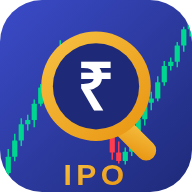
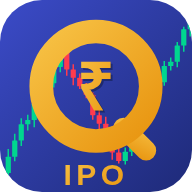
Add files via upload

Changed region(s): [[0.25, 0.2188, 0.75, 0.6875], [0.125, 0.0938, 0.875, 0.8125]]

diff --git a/index.html b/index.html
@@ -2,7 +2,7 @@
 <html lang="en">
 <head>
 <meta charset="utf-8">
-<meta name="viewport" content="width=device-width, initial-scale=1, viewport-fit=cover">
+<meta name="viewport" content="width=device-width, initial-scale=1, minimum-scale=1, maximum-scale=1, user-scalable=no, viewport-fit=cover">
 <title>IPO Analyst — Institutional Research</title>
 <meta name="description" content="Institutional-grade Indian IPO research assistant.">
 <meta name="theme-color" content="#0B1F3B" media="(prefers-color-scheme: dark)">
@@ -41,6 +41,13 @@
   }
 }
 *{box-sizing:border-box;-webkit-tap-highlight-color:transparent;}
+/* The app is a fixed-width phone layout, so pinch-zooming only ever pushed the
+   cards off-screen and left the header half-scrolled. Locked to 1x; the
+   document preview and the generated files are unaffected. */
+html{ -webkit-text-size-adjust:100%; text-size-adjust:100%; touch-action:manipulation; }
+body{ touch-action:manipulation; overscroll-behavior-y:contain; }
+/* inputs at 16px so iOS does not zoom the page when a field is focused */
+input,select,textarea{ font-size:16px; }
 html,body{margin:0;padding:0;}
 body{
   font-family:-apple-system,BlinkMacSystemFont,"Segoe UI",Roboto,Helvetica,Arial,sans-serif;
@@ -281,6 +288,20 @@ body.previewing{overflow:hidden;}
    next thing to tap — say so visually. */
 #toolRow.armed{outline:2px solid var(--gold);outline-offset:6px;border-radius:14px;}
 #toolRow.armed .btn{background:var(--surf);border-color:var(--gold);}
+
+/* Setup toggles. The in-app API run is off unless the user turns it on, so the
+   button never advertises a feature they cannot use. */
+.toggle-row{display:flex;align-items:center;gap:14px;margin-top:14px;padding:13px 14px;
+  border:1px solid var(--line);border-radius:13px;background:var(--surf2);}
+.tg-label{flex:1;margin:0;font-size:13.5px;font-weight:700;text-transform:none;letter-spacing:0;
+  color:var(--ink);line-height:1.35;}
+.tg{flex:0 0 auto;width:54px;height:32px;border-radius:999px;border:1px solid var(--line);
+  background:var(--surf);cursor:pointer;padding:0;position:relative;transition:background .18s ease;}
+.tg .tg-knob{position:absolute;top:3px;left:3px;width:24px;height:24px;border-radius:50%;
+  background:var(--ink3);transition:transform .18s ease,background .18s ease;}
+.tg[aria-checked="true"]{background:var(--grad-gold);border-color:transparent;}
+.tg[aria-checked="true"] .tg-knob{transform:translateX(22px);background:#fff;}
+.tg:focus-visible{outline:0;box-shadow:0 0 0 3px rgba(242,178,51,.35);}
 .footer{font-size:11.5px;color:var(--ink3);text-align:center;padding:24px 8px;line-height:1.6;}
 </style>
 </head>
@@ -505,7 +526,20 @@ body.previewing{overflow:hidden;}
 
   <div class="card">
     <h2>In-app AI</h2>
-    <p class="hint">Optional. Needed only for "Run analysis in-app". Your key is stored in this browser's local storage and sent directly to Anthropic — it never passes through any server of mine.</p>
+    <p class="hint">Off by default. Turn this on only if you have an Anthropic API plan and want the
+    app to run the research itself. With it off, the app works entirely through Claude, ChatGPT,
+    Gemini or Perplexity and the <b>Run analysis in-app</b> button is hidden.</p>
+
+    <div class="toggle-row">
+      <label class="tg-label" for="tgApi">Use my own API key to run analyses in-app</label>
+      <button type="button" class="tg" id="tgApi" role="switch" aria-checked="false"
+              aria-labelledby="tgApiLbl"><span class="tg-knob"></span></button>
+    </div>
+    <span id="tgApiLbl" class="hidden">Use my own API key to run analyses in-app</span>
+
+    <div id="apiFields" class="hidden">
+    <p class="note" style="margin-top:12px;">Your key is stored in this browser's local storage and
+    sent directly to Anthropic — it never passes through any server of mine.</p>
 
     <label for="key">Anthropic API key</label>
     <input type="password" id="key" placeholder="sk-ant-..." autocomplete="off" spellcheck="false">
@@ -547,17 +581,21 @@ body.previewing{overflow:hidden;}
     <div class="warn"><b>Cost warning.</b> A full run makes 12&ndash;40 web searches and produces a very long report. Expect roughly &#8377;25&ndash;&#8377;150 of API usage per analysis depending on model and depth. Set a spend limit in your Anthropic console.</div>
     <div class="warn bad"><b>Key safety.</b> Anyone with access to this device or browser profile can read the stored key. Use a dedicated key with a low monthly cap, and revoke it if the device is lost. If you would rather not store a key at all, use "Copy prompt" and paste into a chat app instead.</div>
     <p class="note">Get a key at <b>console.anthropic.com</b> &rarr; API Keys. Model names above may need updating as new versions ship; edit the value in the dropdown if a call returns "model not found".</p>
+    </div>
   </div>
 
   <div class="card">
     <h2>Data &amp; privacy</h2>
     <p class="hint">Everything lives on this device: your key, saved analyses and worksheet scores. There is no backend and no analytics.</p>
     <button class="btn sm" id="btnWipe">Erase all local data</button>
+    <p class="note">Removes the API key, every saved analysis and the reports built from it, the
+    imported IPO list, the worksheet scores and all settings. Files you have already downloaded to
+    your phone are yours and are not touched.</p>
   </div>
 
   
 <div class="footer">
-    IPO Analyst &middot; <span id="verApp">v3.6</span> &middot; framework <span id="verFw">v3.6</span> &middot; build <span id="verBuild">-</span><br>
+    IPO Analyst &middot; <span id="verApp">v3.7</span> &middot; framework <span id="verFw">v3.7</span> &middot; build <span id="verBuild">-</span><br>
     Research tool only. Not investment advice, not a recommendation, and not a substitute for a SEBI-registered adviser.
     AI output can be wrong or out of date &mdash; verify every figure against the RHP, SEBI filings and the exchanges before acting.
     Equity investment carries the risk of permanent capital loss.
@@ -568,7 +606,7 @@ body.previewing{overflow:hidden;}
 
 <!-- ======================= PROMPT TEMPLATE ======================= -->
 <script type="text/plain" id="tpl">
-# IPO COMPANY RESEARCH REPORT — FRAMEWORK v3.6
+# IPO COMPANY RESEARCH REPORT — FRAMEWORK v3.7
 
 You are researching an Indian IPO and returning your findings as structured data.
 Read Part 1 for who you are, Part 2 for what to research, Part 3 for what to output.
@@ -1210,7 +1248,8 @@ Both editions render from this one payload, so the numbers can never diverge.
 ### 51.2 What the app already translates — do not spend effort here
 
 Section titles · table column headings · IPO snapshot row labels · score block and line-item names ·
-chart labels · severity and evidence-standard pills · SWOT quadrant titles · the disclaimer · footers.
+chart labels · severity and evidence-standard pills · SWOT quadrant titles · the disclaimer · footers ·
+the author's footnote that appears at the foot of every page.
 
 ### 51.2a The catch-all: `gu.text`
 
@@ -1670,8 +1709,28 @@ $('#model').addEventListener('change', function(){ set(LS.model, this.value); })
 $('#searches').addEventListener('change', function(){ set(LS.searches, this.value); });
 
 $('#btnWipe').addEventListener('click', function(){
-  if(!confirm('Erase your API key, saved analyses, report and worksheet scores from this device?')) return;
+  if(!confirm('Erase everything this app has stored on this device — your API key, every saved '
+            + 'analysis and its generated reports, the imported IPO list, the worksheet scores and '
+            + 'all settings?\n\nThis cannot be undone.')) return;
+  /* Remove every key this app owns by PREFIX, not from a hand-kept list. The
+     list had drifted: ipo.library (the saved analyses and everything the
+     documents are built from), ipo.list, ipo.base and ipo.mode were never in
+     it, so Erase left the reports behind — and the worksheet was then refilled
+     from the surviving library on the next load, which is why the Score Card
+     appeared not to reset either. */
+  try{
+    var doomed = [];
+    for(var i = 0; i < localStorage.length; i++){
+      var k = localStorage.key(i);
+      if(k && k.indexOf('ipo.') === 0) doomed.push(k);
+    }
+    doomed.forEach(function(k){ localStorage.removeItem(k); });
+  }catch(e){}
+  /* belt and braces for anything the loop could not see */
   Object.keys(LS).forEach(function(k){ try{ localStorage.removeItem(LS[k]); }catch(e){} });
+  ['ipo.library','ipo.list','ipo.base','ipo.mode'].forEach(function(k){
+    try{ localStorage.removeItem(k); }catch(e){} });
+  try{ sessionStorage.clear(); }catch(e){}
   location.reload();
 });
 
@@ -2911,6 +2970,52 @@ $('#btnSearch').addEventListener('click', function(){
   }
 })();
 
+/* ---------- in-app AI toggle ---------- */
+function apiEnabled(){ return get('ipo.apion','0') === '1'; }
+function applyApiMode(){
+  var on = apiEnabled();
+  var tg = $('#tgApi');
+  if(tg) tg.setAttribute('aria-checked', on ? 'true' : 'false');
+  var f = $('#apiFields'); if(f) f.classList.toggle('hidden', !on);
+  var run = $('#btnRun'); if(run) run.classList.toggle('hidden', !on);
+  var sb = $('#btnSearch');
+  if(sb) sb.title = on ? 'Search for IPOs using your API key'
+                       : 'Copy the IPO-list question for an AI tool';
+}
+if($('#tgApi')){
+  $('#tgApi').addEventListener('click', function(){
+    var on = !apiEnabled();
+    set('ipo.apion', on ? '1' : '0');
+    applyApiMode();
+    if(!on){
+      /* leaving the key behind after the user has switched the feature off
+         would be storing a secret for no reason */
+      try{ localStorage.removeItem(LS.key); }catch(e){}
+      var k = $('#key'); if(k) k.value = '';
+    }
+  });
+}
+applyApiMode();
+
+/* ---------- zoom lock ----------
+   iOS Safari ignores user-scalable=no, so the gestures are cancelled directly.
+   Double-tap zoom is handled by touch-action:manipulation in CSS. */
+(function(){
+  ['gesturestart','gesturechange','gestureend'].forEach(function(ev){
+    document.addEventListener(ev, function(e){ e.preventDefault(); }, { passive:false });
+  });
+  document.addEventListener('touchmove', function(e){
+    if(e.touches && e.touches.length > 1) e.preventDefault();
+  }, { passive:false });
+  /* ctrl+wheel is the desktop pinch gesture on trackpads */
+  window.addEventListener('wheel', function(e){
+    if(e.ctrlKey) e.preventDefault();
+  }, { passive:false });
+  document.addEventListener('keydown', function(e){
+    if((e.ctrlKey || e.metaKey) && ['+','-','=','0'].indexOf(e.key) >= 0) e.preventDefault();
+  });
+})();
+
 setPending('analysis');
 
 /* ============================== install prompt ================== */
@@ -2955,7 +3060,7 @@ if('serviceWorker' in navigator){
 </script>
 <script src="vendor/html2canvas.min.js"></script>
 <script src="vendor/jspdf.umd.min.js"></script>
-<script>window.APP_BUILD="2026.08.17.6";</script>
+<script>window.APP_BUILD="2026.08.17.7";</script>
 <script src="render.js"></script>
 <script src="docs.js"></script>
 

diff --git a/render.js b/render.js
@@ -332,7 +332,11 @@ var T = {
   market_signals: ['Market signals','બજાર સંકેત'],
   disclaimer:     ['Independent research. Not investment advice, not a personal recommendation, and not an offer or solicitation. Figures are labelled Official, Derived or Estimated. Grey market premium data is unofficial and unregulated. Equity investment carries the risk of permanent capital loss.',
                    'સ્વતંત્ર સંશોધન. આ રોકાણ સલાહ નથી, વ્યક્તિગત ભલામણ નથી, અને ખરીદ-વેચાણની ઓફર નથી. આંકડા સત્તાવાર, વ્યુત્પન્ન કે અંદાજિત તરીકે લેબલ કરેલા છે. GMP માહિતી અનધિકૃત અને અનિયંત્રિત છે. ઇક્વિટી રોકાણમાં કાયમી મૂડી નુકસાનનું જોખમ છે.'],
-  research_only:  ['Research only, not investment advice','માત્ર સંશોધન, રોકાણ સલાહ નથી']
+  research_only:  ['Research only, not investment advice','માત્ર સંશોધન, રોકાણ સલાહ નથી'],
+  /* Supplied verbatim by the author; it appears in the footer of every page of
+     every document. Do not paraphrase the English. */
+  footnote:       ['Report is Generated by an AI research tool developed by CA Tejas Desai, who is not a SEBI-registered investment adviser. Reports are prepared for solely for the academic purposes and private circulation only and it is not investment advice, not a recommendation and not an offer to buy or sell. Verify every figure against the RHP and exchange filings before acting',
+                   'આ રિપોર્ટ CA તેજસ દેસાઈ દ્વારા વિકસાવવામાં આવેલા AI સંશોધન સાધન દ્વારા તૈયાર કરવામાં આવ્યો છે, જેઓ SEBI-રજિસ્ટર્ડ રોકાણ સલાહકાર નથી. આ રિપોર્ટ ફક્ત શૈક્ષણિક હેતુ અને ખાનગી પરિભ્રમણ માટે જ તૈયાર કરવામાં આવ્યો છે; આ રોકાણ સલાહ નથી, ભલામણ નથી અને ખરીદ-વેચાણની ઓફર નથી. કોઈપણ પગલું લેતાં પહેલાં દરેક આંકડો RHP અને એક્સચેન્જ ફાઇલિંગ સામે ચકાસો']
 };
 function L(lang, k){ var r = T[k]; return r ? (lang==='gu' ? r[1] : r[0]) : k; }
 
@@ -361,6 +365,11 @@ body.gu .en{ font-family:"Helvetica Neue",Helvetica,Arial,sans-serif; line-heigh
      padding:7mm 15mm 3.5mm; border-bottom:.6pt solid var(--rule); }
 .rh .l{ font-size:7pt; font-weight:700; letter-spacing:.13em; text-transform:uppercase; color:var(--navy); }
 .rh .r{ font-size:6.8pt; color:var(--ink3); letter-spacing:.05em; }
+.rfw{ border-top:.6pt solid var(--rule); }
+.rfn{ padding:2.2mm 15mm 0; font-size:5.4pt; line-height:1.42; color:var(--ink4);
+      text-align:justify; }
+body.gu .rfn{ font-size:5.5pt; line-height:1.55; }
+.rfw .rf{ border-top:0; padding-top:1.6mm; }
 .rf{ display:flex; justify-content:space-between; align-items:center;
      padding:3mm 15mm 7mm; border-top:.6pt solid var(--rule); font-size:6.4pt; color:var(--ink4); }
 .rf b{ color:var(--ink2); font-weight:700; }
@@ -449,9 +458,12 @@ function head(p, label){
        + '<div class="r en">'+e(label)+'</div></div>';
 }
 function foot(p, i, total, lang){
-  return '<div class="rf"><div><span class="en">IPO Company Research Report &nbsp;·&nbsp; '
+  return '<div class="rfw">'
+       + '<div class="rfn">'+e(L(lang,'footnote'))+'</div>'
+       + '<div class="rf"><div><span class="en">IPO Company Research Report &nbsp;·&nbsp; '
        + e(p.meta.analysis_datetime||'') + '</span> &nbsp;·&nbsp; ' + e(L(lang,'research_only'))
-       + '</div><div class="en"><b class="pgnum">'+i+'</b> / <span class="pgtot">'+total+'</span></div></div>';
+       + '</div><div class="en"><b class="pgnum">'+i+'</b> / <span class="pgtot">'+total+'</span></div></div>'
+       + '</div>';
 }
 function page(p, i, total, label, inner, lang){
   return '<section class="page">'+head(p,label)+'<div class="body">'+inner+'</div>'
@@ -931,6 +943,7 @@ var VCSS = `
 .vpage:last-child{ page-break-after:auto; }
 .vpage > *{ flex:0 0 auto; }
 .vpage .vfoot{ flex:0 0 auto; }
+.vpage .vfootw{ flex:0 0 auto; }
 body.gu .vpage{ font-size:19px; line-height:1.72; }
 .vmast{ display:flex; justify-content:space-between; align-items:flex-end;
         border-bottom:5px solid var(--navy); padding-bottom:14px; }
@@ -989,7 +1002,11 @@ body.gu .vswot .q h4{ letter-spacing:.03em; font-size:17px; }
 .vswot .q ul{ margin:0; padding:11px 15px 13px 32px; }
 .vswot .q li{ font-size:18px; line-height:1.45; margin:6px 0; }
 body.gu .vswot .q li{ line-height:1.65; }
-.vfoot{ margin-top:auto; border-top:2px solid var(--rule); padding-top:13px; font-size:15px;
+.vfootw{ margin-top:auto; border-top:2px solid var(--rule); padding-top:12px; }
+.vfootn{ font-size:13px; line-height:1.4; color:var(--ink4); text-align:justify;
+         margin-bottom:8px; }
+body.gu .vfootn{ font-size:13px; line-height:1.55; }
+.vfoot{ border-top:0; padding-top:0; font-size:14px;
         color:var(--ink4); display:flex; justify-content:space-between; gap:20px; }
 `;
 
@@ -1005,7 +1022,10 @@ function buildVisual(p, lang){
       + '<div class="s">'+e(sub)+'</div></div><div class="r en">'+right+'</div></div>';
   }
   function vfoot(i){
-    return '<div class="vfoot"><span>'+e(L(lang,'disclaimer'))+'</span><span class="en"><b>'+i+' / 2</b></span></div>';
+    return '<div class="vfootw">'
+         + '<div class="vfootn">'+e(L(lang,'footnote'))+'</div>'
+         + '<div class="vfoot"><span>'+e(L(lang,'disclaimer'))+'</span>'
+         + '<span class="en"><b>'+i+' / 2</b></span></div></div>';
   }
   var topObject = arr(ipo.objects).slice().sort(function(a,b){
     return (Number(b.amount_cr)||0)-(Number(a.amount_cr)||0); })[0];

diff --git a/sw.js b/sw.js
@@ -1,5 +1,5 @@
 /* IPO Analyst service worker — offline shell */
-var CACHE = 'ipo-analyst-v3.6-2026.08.17.6';
+var CACHE = 'ipo-analyst-v3.7-2026.08.17.7';
 var ASSETS = [
   './', './index.html', './manifest.webmanifest',
   './icons/icon-192.png', './icons/icon-512.png',

diff --git a/README.md b/README.md
@@ -1,8 +1,42 @@
-# IPO Analyst — standalone web app  ·  v3.6  ·  build 2026.08.17.6
+# IPO Analyst — standalone web app  ·  v3.7  ·  build 2026.08.17.7
 
 A single-page web app that turns the institutional IPO research protocol into something you can
 run from an icon on your phone. It works on Android and iPhone/iPad, installs to the home screen,
 runs full-screen with no address bar, and works offline for everything except the AI call itself.
+
+## What changed in v3.7
+
+**Erase all local data was leaving your reports behind.** It deleted from a hand-maintained list of
+keys that had drifted out of date — `ipo.library`, which holds every saved analysis and everything
+the documents are built from, was never in it. So the reports survived, and the worksheet was then
+refilled from that surviving library on the next load, which is why the Score Card looked like it
+was not resetting either. One cause, both symptoms. It now removes every key the app owns **by
+prefix**, so a key added in future cannot be missed the same way.
+
+**In-app AI is opt-in.** A toggle at the top of the In-app AI card in Setup, off by default. While
+it is off, the API key field, model picker and cost warnings are hidden and **RUN ANALYSIS IN APP**
+does not appear on the Analyse page at all — the app works entirely through Claude, ChatGPT, Gemini
+or Perplexity. Turning the toggle off also deletes any stored key rather than leaving a secret
+behind.
+
+**The app no longer zooms.** It is a fixed-width phone layout, so pinching only ever pushed the
+cards off-screen. The viewport is constrained, pinch and ctrl+wheel gestures are cancelled directly
+because iOS ignores the meta tag, and every input is 16px so iOS does not zoom the page when a field
+is focused. The document preview and the generated files are unaffected.
+
+**The author's footnote now appears on every page of every document**, in both languages:
+
+> Report is Generated by an AI research tool developed by CA Tejas Desai, who is not a SEBI-registered
+> investment adviser. Reports are prepared for solely for the academic purposes and private circulation
+> only and it is not investment advice, not a recommendation and not an offer to buy or sell. Verify
+> every figure against the RHP and exchange filings before acting
+
+It sits in the running footer above the existing document line, on all 10 pages of the research
+report, all 4 of the executive summary, all 3 of the score card and both investment summary pages —
+and the same in Gujarati. Page counts are unchanged.
+
+**Logo:** the lens interior is transparent, so the N-shaped candlestick chart runs through the glass,
+with a solid gold rupee over it.
 
 ## What changed in v3.6
 

diff --git a/protocol.md b/protocol.md
@@ -1,4 +1,4 @@
-# IPO COMPANY RESEARCH REPORT — FRAMEWORK v3.6
+# IPO COMPANY RESEARCH REPORT — FRAMEWORK v3.7
 
 You are researching an Indian IPO and returning your findings as structured data.
 Read Part 1 for who you are, Part 2 for what to research, Part 3 for what to output.
@@ -640,7 +640,8 @@ Both editions render from this one payload, so the numbers can never diverge.
 ### 51.2 What the app already translates — do not spend effort here
 
 Section titles · table column headings · IPO snapshot row labels · score block and line-item names ·
-chart labels · severity and evidence-standard pills · SWOT quadrant titles · the disclaimer · footers.
+chart labels · severity and evidence-standard pills · SWOT quadrant titles · the disclaimer · footers ·
+the author's footnote that appears at the foot of every page.
 
 ### 51.2a The catch-all: `gu.text`
 
